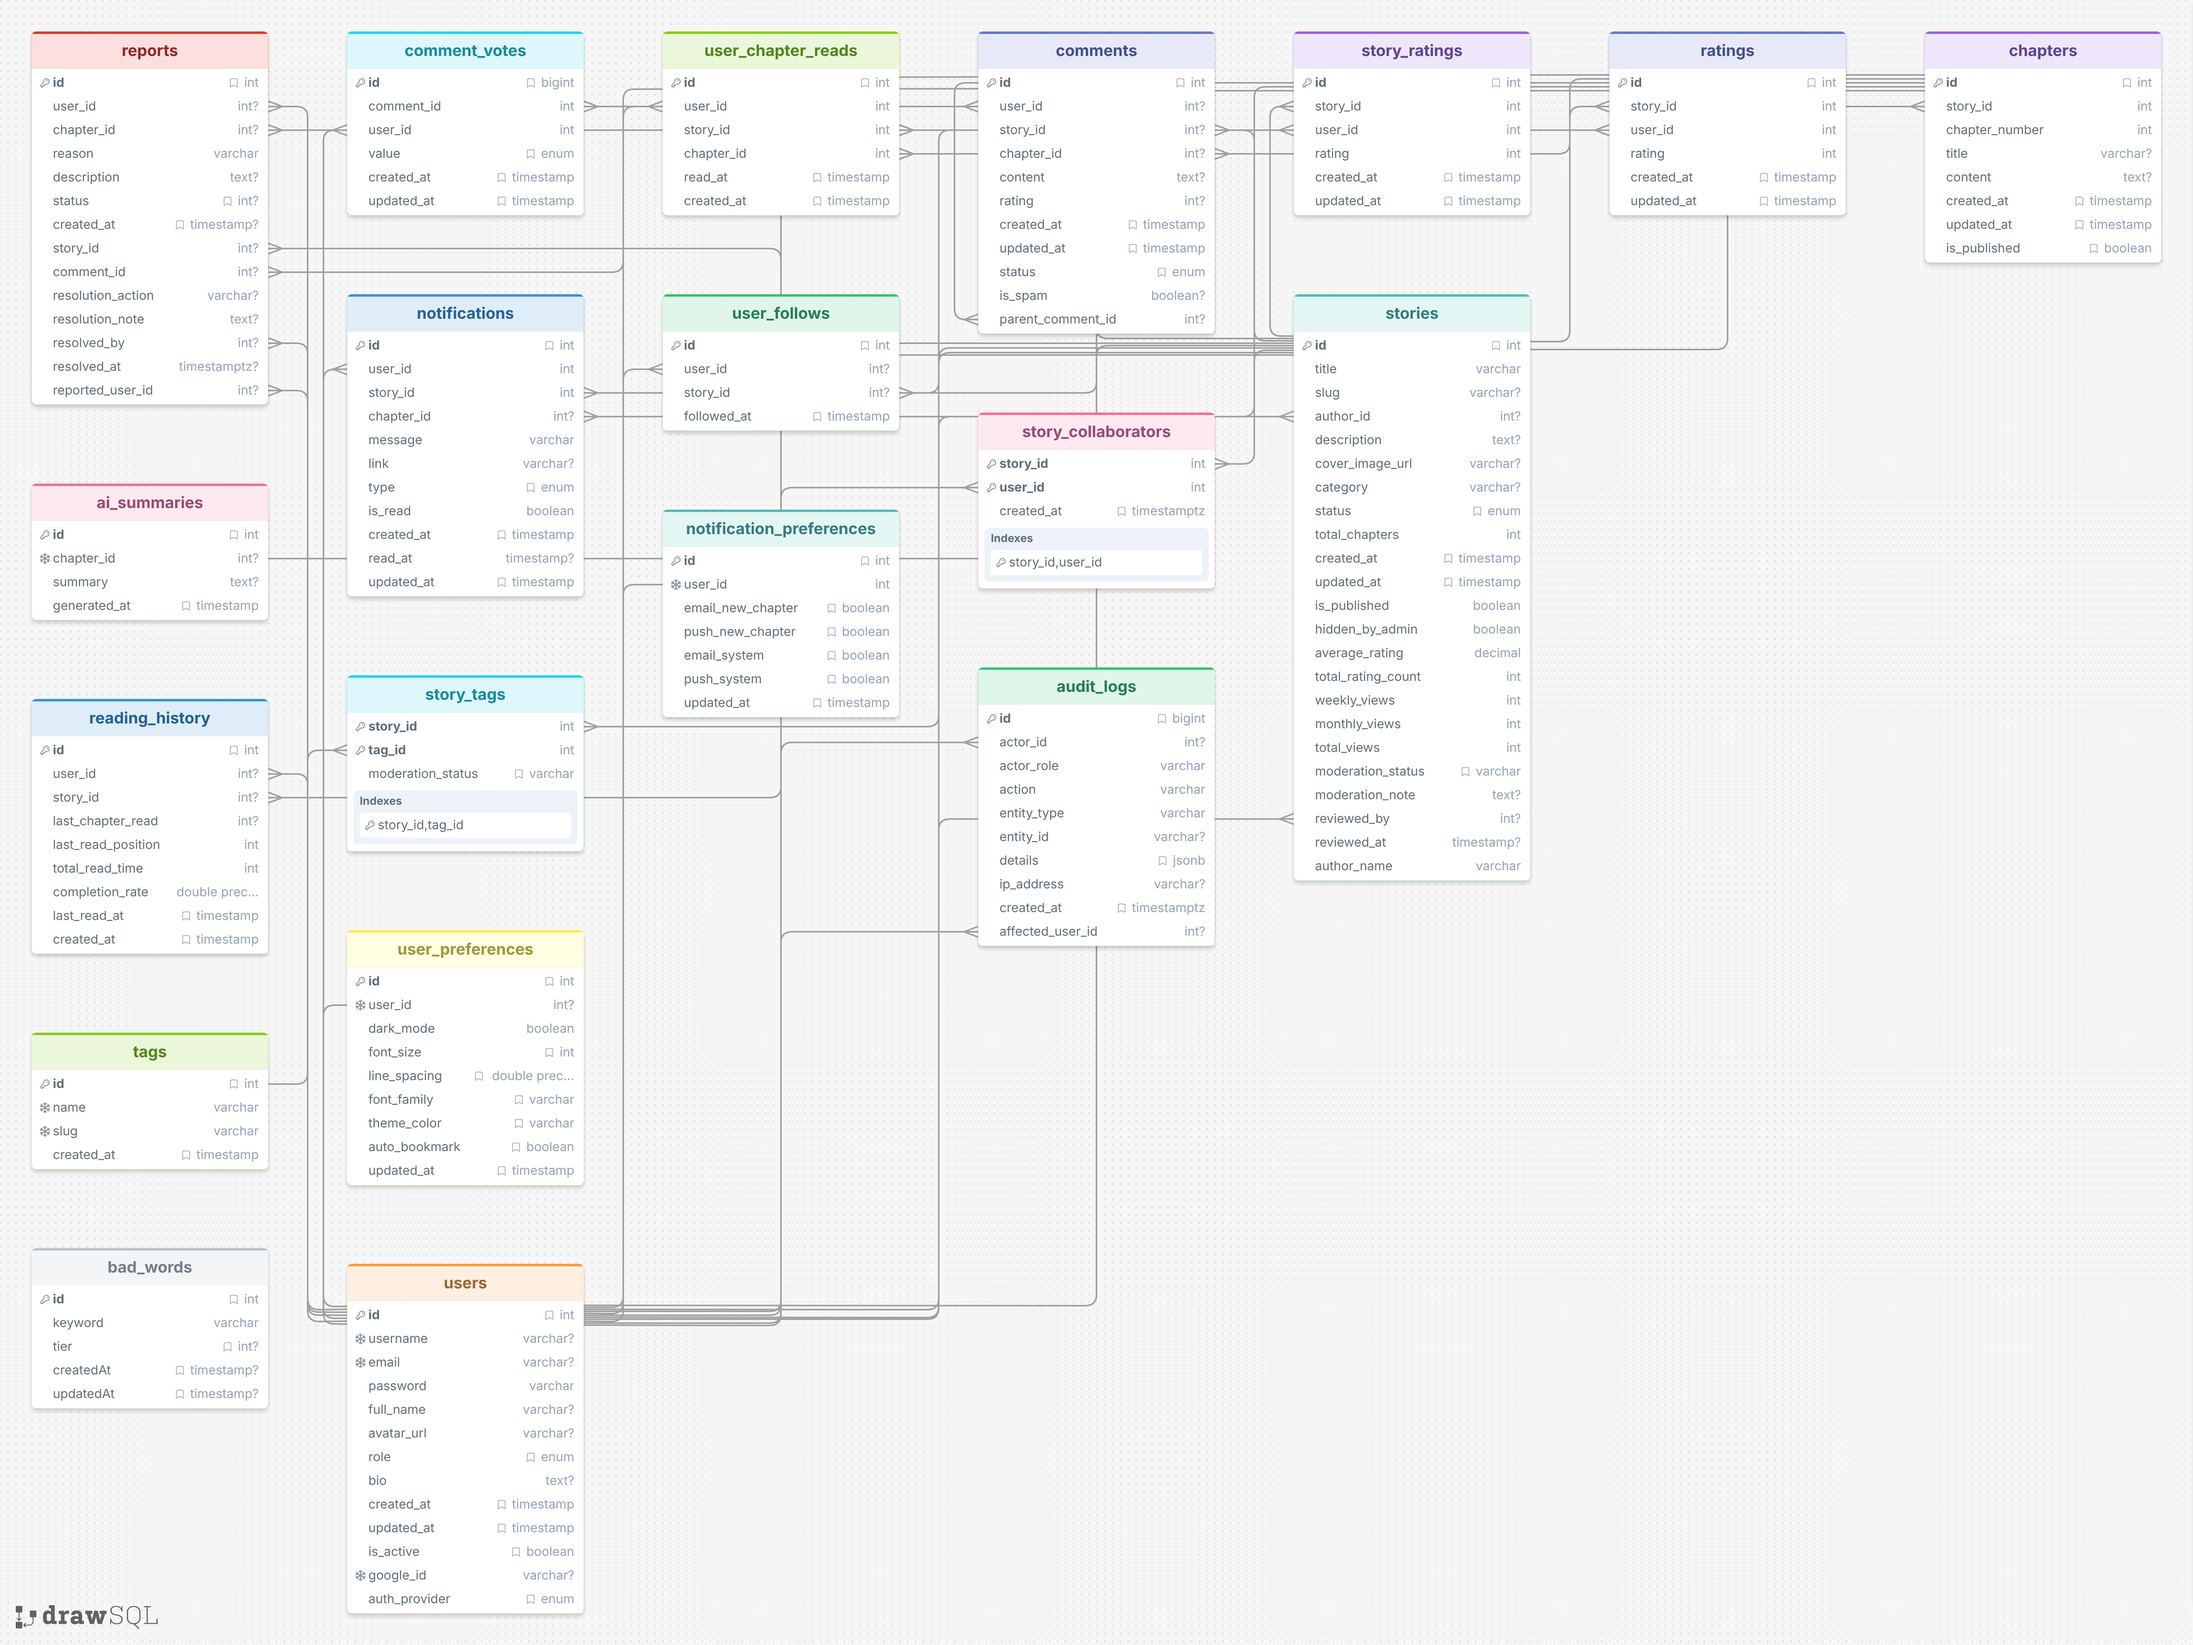
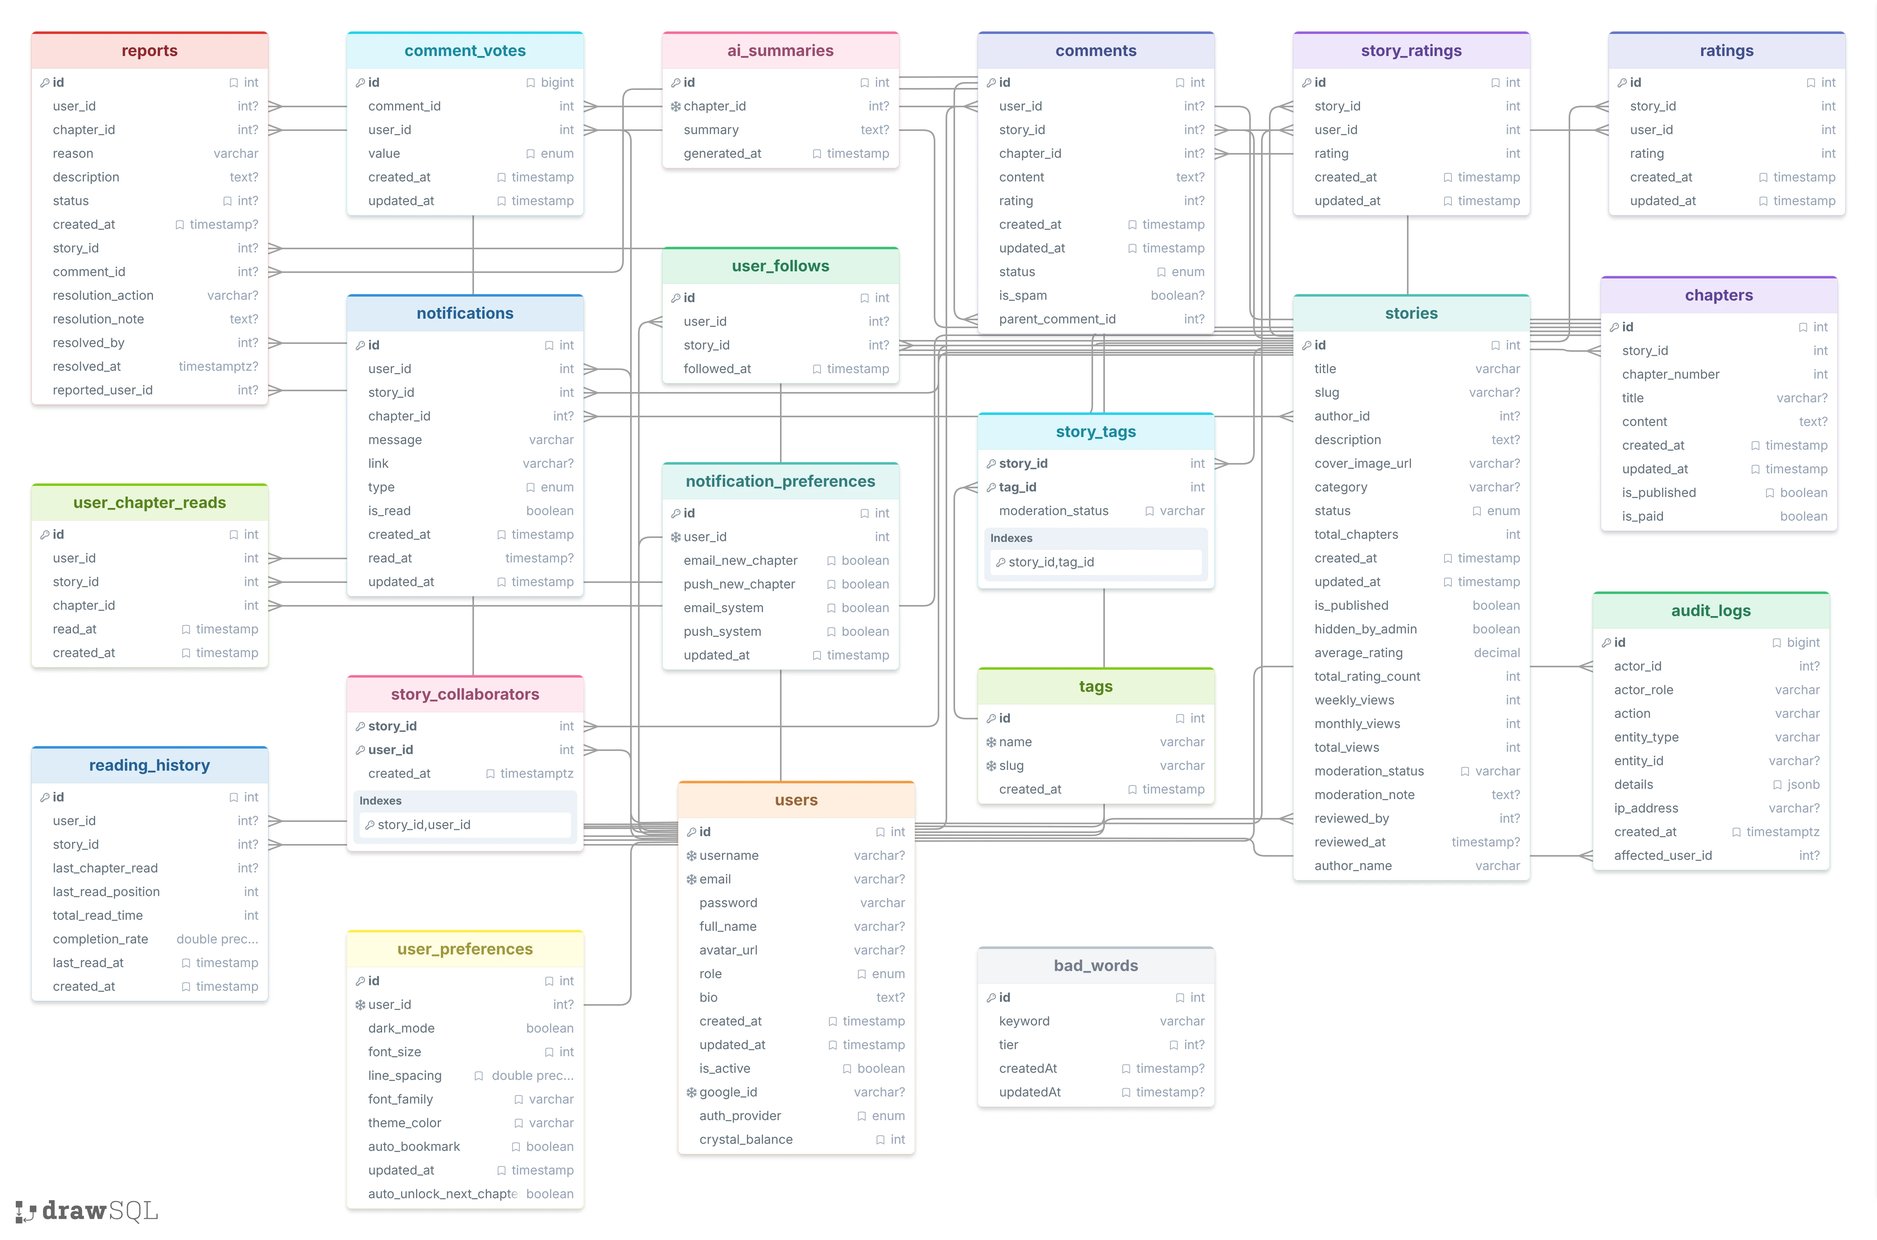
report erd updated

diff --git a/docs/bao-cao/chapters/chapter3.tex b/docs/bao-cao/chapters/chapter3.tex
@@ -326,18 +326,14 @@ Tuy nhiên, fallback giữa hai mô hình có thể tạo kết quả khác nhau
 
 Schema chính \CodePath{backend/scripts/schema.sql} định nghĩa các nhóm dữ liệu về tài khoản, truyện và chương, lịch sử đọc, tương tác, thông báo, kiểm duyệt và nhật ký quản trị. Các script riêng bổ sung tag, liên kết truyện--tag và báo cáo vi phạm. Thiết kế sử dụng khóa chính, khóa ngoại, \CodePath{UNIQUE} và \CodePath{CHECK} để bảo đảm tính toàn vẹn dữ liệu \cite{postgresql-docs}.
 
-% Trang ERD A3 ngang được dựng sẵn để giữ đúng khổ giấy và không sinh
-% trang trắng khi chuyển giữa A4 và A3.
-\clearpage
-\refstepcounter{figure}
-\addcontentsline{lof}{figure}{%
-  \protect\numberline{\thefigure}Lược đồ ERD của cơ sở dữ liệu CMC Truyện}
-\label{fig:database-er}
-\includepdf[
-  pages=1,
-  fitpaper=true,
-  pagecommand={\thispagestyle{empty}}
-]{images/database-erd-a3.pdf}
+\begin{landscape}
+\begin{figure}[p]
+  \centering
+  \includegraphics[width=\linewidth,height=\textheight,keepaspectratio]{images/database-erd.png}
+  \caption{Lược đồ ERD của cơ sở dữ liệu CMC Truyện}
+  \label{fig:database-er}
+\end{figure}
+\end{landscape}
 
 Hình~\ref{fig:database-er} thể hiện các quan hệ chính của hệ thống. \CodePath{users}, \CodePath{stories} và \CodePath{chapters} là ba thực thể trung tâm; các bảng lịch sử đọc, theo dõi, đánh giá, bình luận và thông báo liên kết hành vi người dùng với nội dung. Nhóm bảng \CodePath{reports}, \CodePath{bad_words} và \CodePath{audit_logs} phục vụ kiểm duyệt và truy vết.
 
